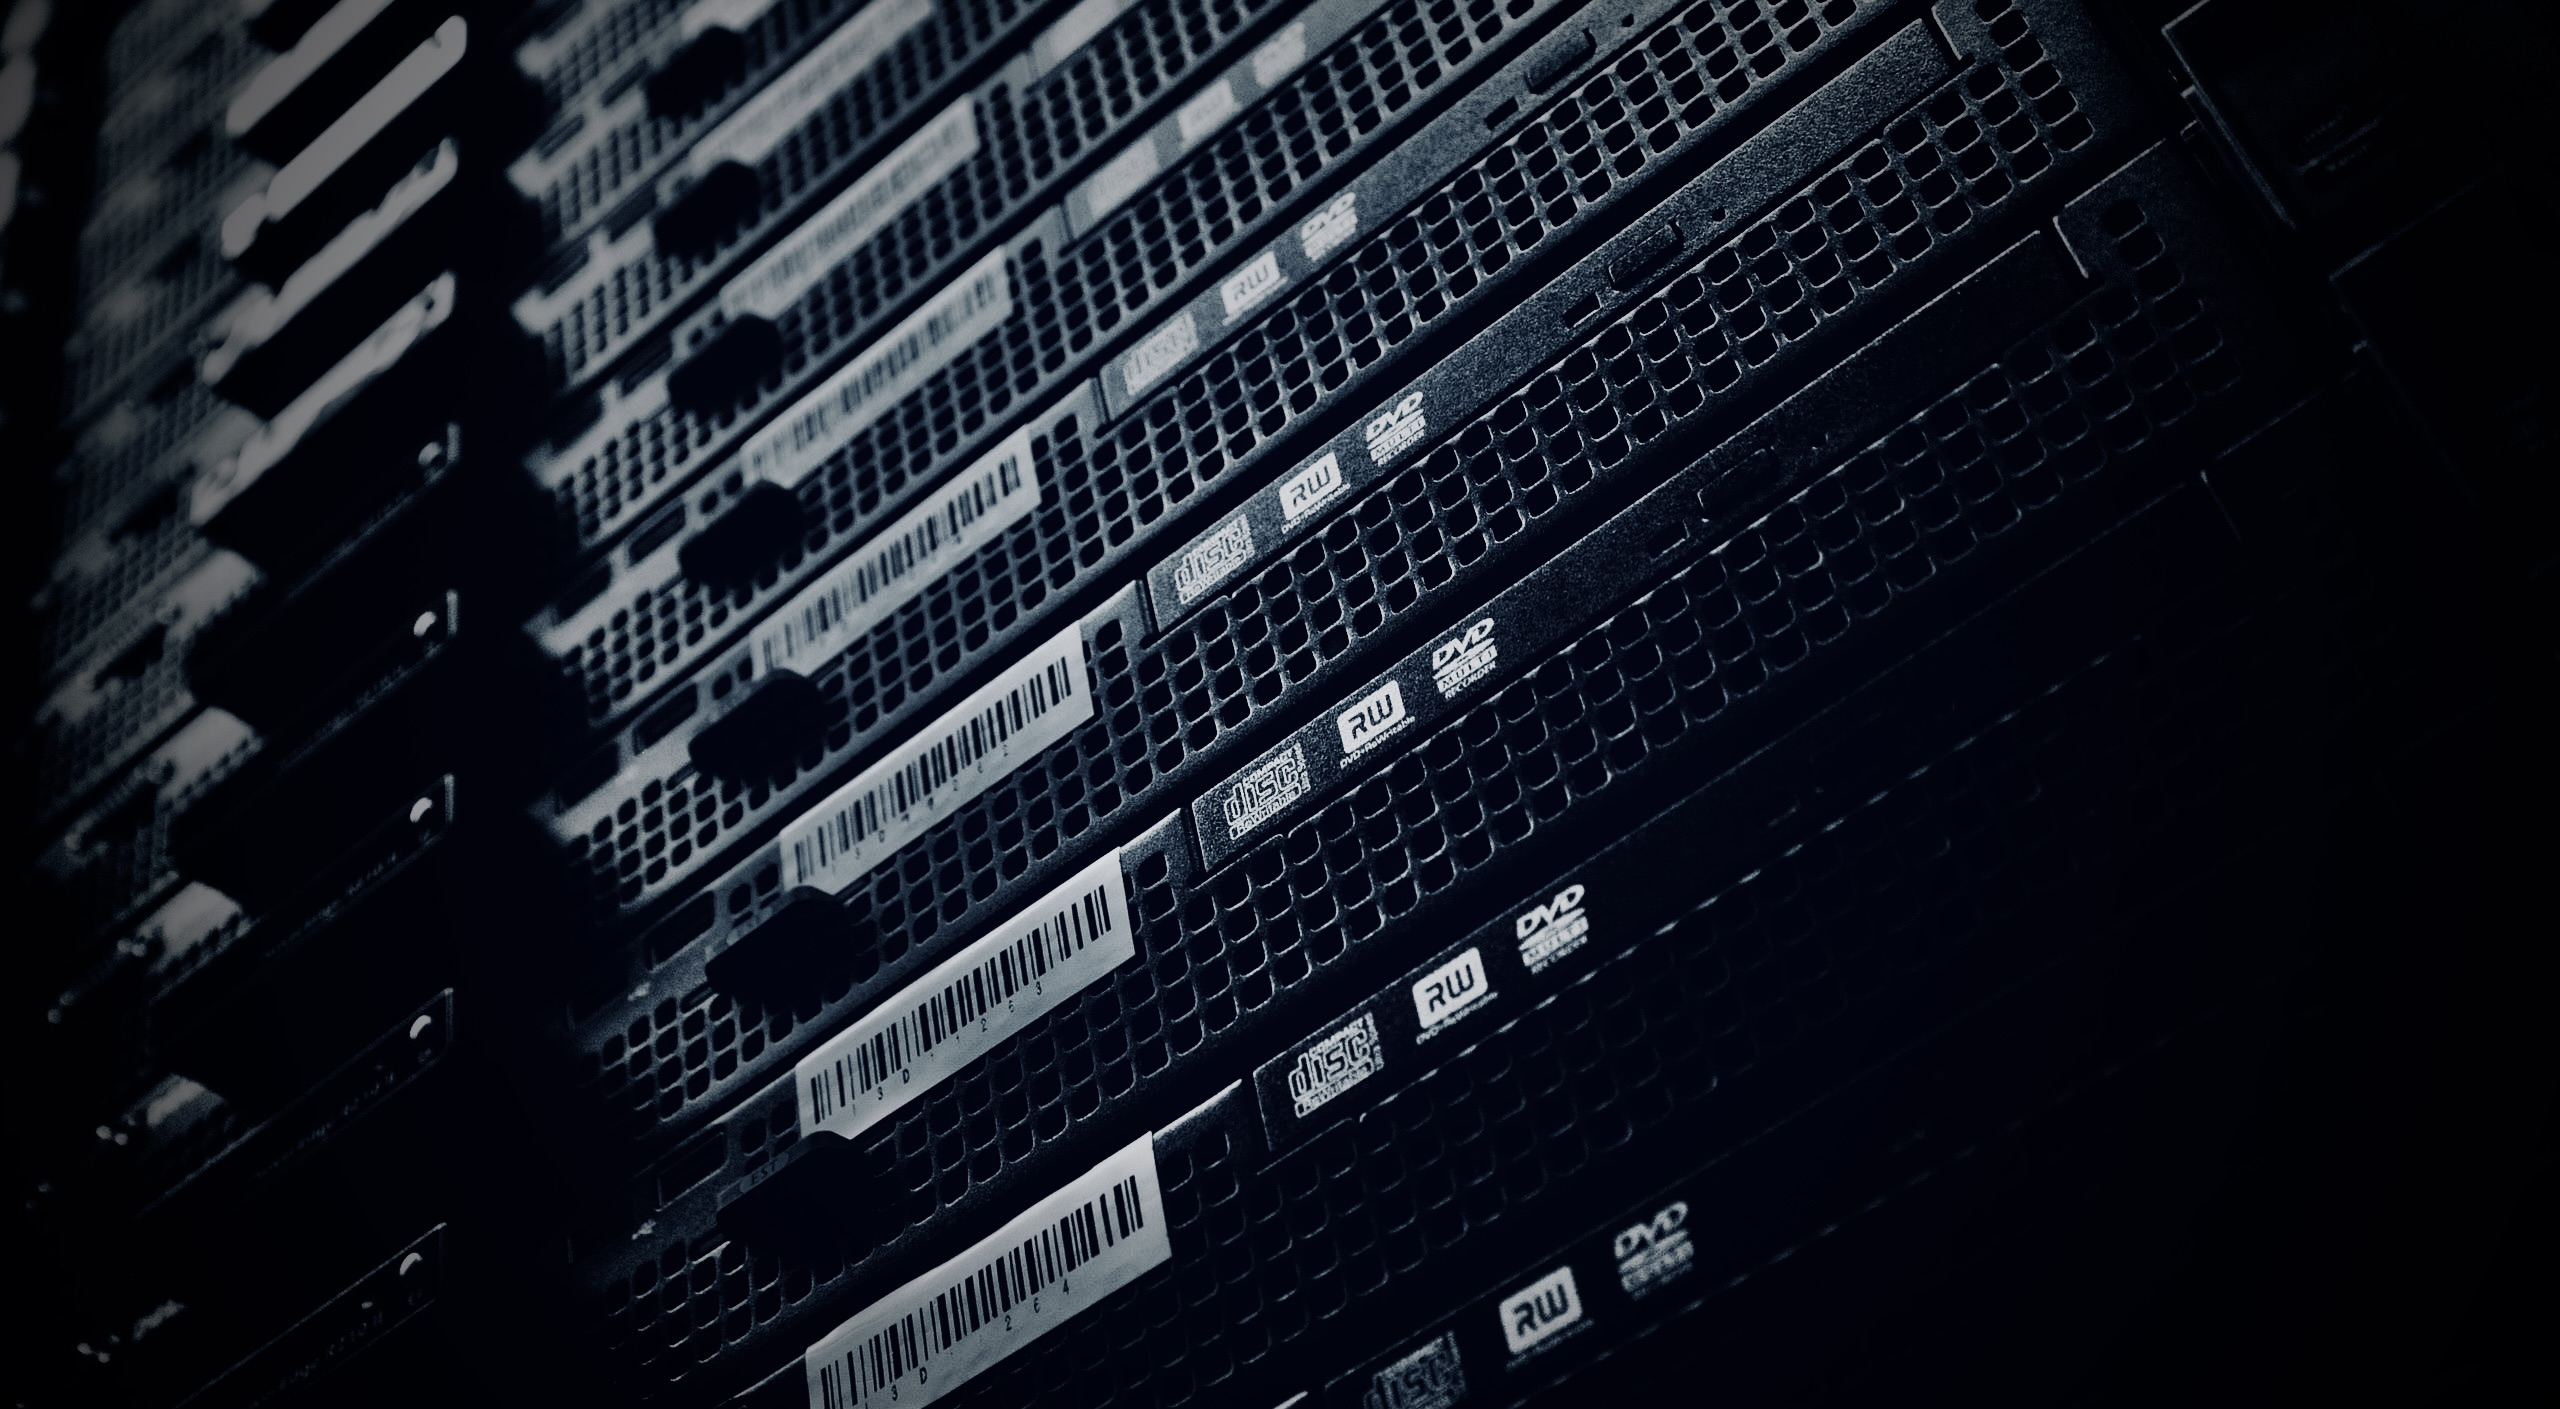
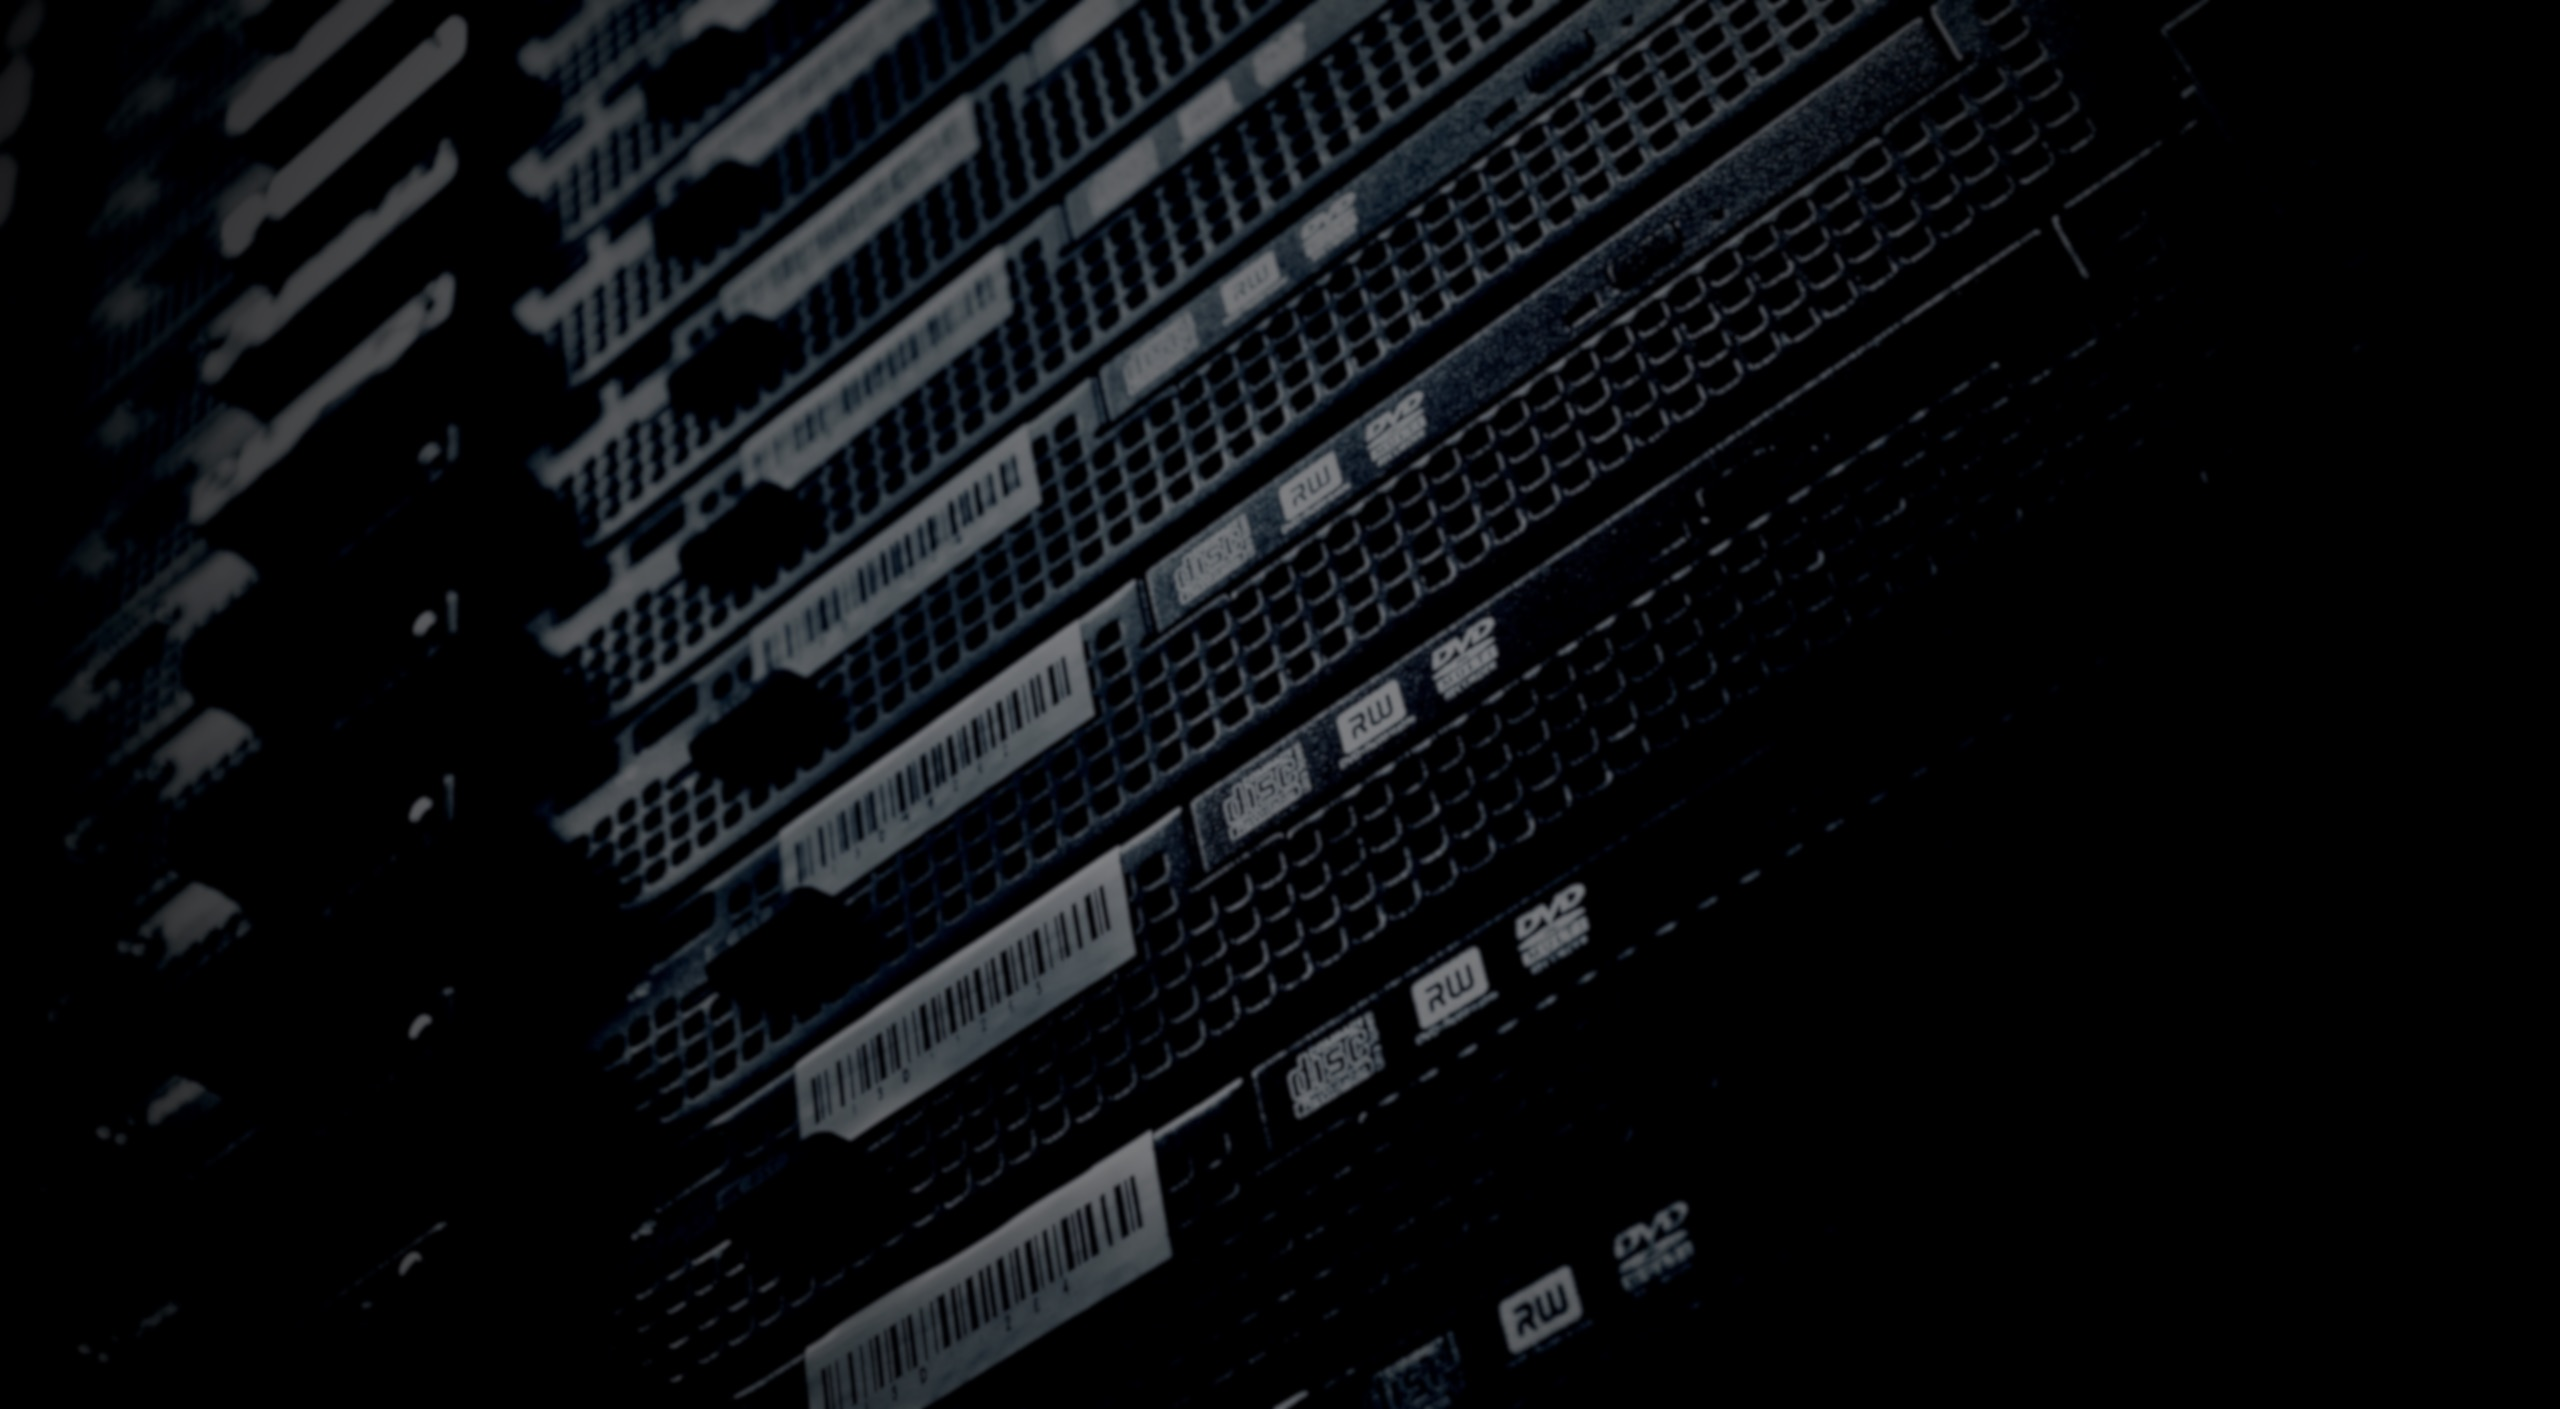
remove background pic, change it to IT

diff --git a/index.html b/index.html
@@ -7,20 +7,28 @@
 
     <link rel="stylesheet" href="node_modules/bootstrap-social/bootstrap-social.css" />
     <link rel="stylesheet" href="node_modules/bootstrap/dist/css/bootstrap.min.css" />
-    <link rel="stylesheet" href="/styles.css">
+    
+
+
     <link rel="stylesheet" href="node_modules/font-awesome/css/font-awesome.min.css" />
+    
+    
     <link rel="preconnect" href="https://fonts.googleapis.com">
     <link rel="preconnect" href="https://fonts.gstatic.com" crossorigin>
     <link href="https://fonts.googleapis.com/css2?family=Beau+Rivage&display=swap" rel="stylesheet"> 
     <link href="https://fonts.googleapis.com/css2?family=Open+Sans&display=swap" rel="stylesheet"> 
-
-
+    
+    <link href="../assets/dist/css/bootstrap.min.css" rel="stylesheet">
+    
+    
+    <link rel="stylesheet" href="/styles.css">
+    
     <title>Document</title>
 </head>
 <body>
 
     <header class="jumbotron jumbotron-fluid">
-        <div class="container">
+        <div class="container container-fluid ">
             <div class="row align-items-center">
                 <div class="col-md-5 col-sm-8 align-self-center">
                     <img src="img/TCS transparent.png" class="img-fluid">
@@ -28,50 +36,50 @@
                 <div class="col-md-5 text-center fs-1 ">
                     <a href="mailto:trinitycomputing@protonmail.com">trinitycomputing@protonmail.com</a>
                 </div>
+                <div class="row row-content justify-content-center ">
+                    <div class="col-8">
+                        <h1 class="topText text-center float-left" >Providing I. T. solutions <br> </h1>
+                        <h1 class="bottomText text-center offset-sm-3"> for a better business</h1>
+                    </div>
+                </div>
+
             </div>
         </div>
     </header>
 
     <div class="container container-fluid p-lg-4">
-        <div class="row row-content justify-content-center">
-            <div class="col-8">
-                <h1 class="topText text-center" >Providing IT solutions <br> </h1>
-                <h1 class="bottomText text-center offset-sm-3"> for a better business</h1>
-            </div>
+        
 
-        </div>
-    
-    
         <div class="row row-content justify-content-center">
             <div class="col-8">
                 <h1 class="text-center">Reliable IT that you can trust with over 20 years of experience</h1>
-                <div class="row row-content justify-content-center"> 
-                    <div class="col-4 fs-3 ">
-                        Server Configuration
+                <div class="row row-content justify-content-center text-wrap"> 
+                    <div class="col-md-4 fs-3 text-center text-wrap">
+                        Server Setup  
                     </div>
-                    <div class="col-4 fs-3">
-                        Cloud setup
+                    <div class="col-md-4 fs-3 text-center">
+                        Cloud Integration
                     </div>
-                    <div class="col-4 fs-3">
-                        Network installations
+                    <div class="col-md-4 fs-3 text-center">
+                        Network Installations
                     </div>
                 </div>
                 <div class="row">
-                    <div class="col fs-3">
-                        PC Imaging
+                    <div class="col-md-4 fs-3 text-center">
+                        Computer Formatting
                     </div>
-                    <div class="col fs-3">
+                    <div class="col-md-4 fs-3 text-center">
                         Software Support
                     </div>
-                    <div class="col fs-3">
-                        Business Consolting
+                    <div class="col-md-4 fs-3 text-center">
+                        Business Consulting
                     </div>  
                 </div>     
                 
             </div>
             <div class="row row-content justify-content-center">
-                <div class="col-sm-5">
-                    <button type="button" class="btn btn-lg btn-primary">Contact us Anytime</button>
+                <div class="col-sm-5 text-center">
+                    <a href="mailto:trinitycomputing@protonmail.com" class="btn btn-lg btn-primary ">Contact us Anytime</a>
                 </div>
             </div>
         </div>

diff --git a/cover.html b/cover.html
@@ -1,0 +1,85 @@
+<!doctype html>
+<html lang="en" class="h-100">
+  <head>
+    <meta charset="utf-8">
+    <meta name="viewport" content="width=device-width, initial-scale=1">
+    <meta name="description" content="">
+    <meta name="author" content="Mark Otto, Jacob Thornton, and Bootstrap contributors">
+    <meta name="generator" content="Hugo 0.88.1">
+    <title>Cover Template · Bootstrap v5.1</title>
+
+    <link rel="canonical" href="https://getbootstrap.com/docs/5.1/examples/cover/">
+    <link rel="stylesheet" href="node_modules/bootstrap-social/bootstrap-social.css" />
+    <link rel="stylesheet" href="node_modules/bootstrap/dist/css/bootstrap.min.css" />
+
+    
+
+    <!-- Bootstrap core CSS -->
+<link href="../assets/dist/css/bootstrap.min.css" rel="stylesheet">
+
+    <style>
+        #intro {
+        background-image: url(./img/servers.jpg);
+        height: 100vh;
+      }
+
+      .bd-placeholder-img {
+        font-size: 1.125rem;
+        text-anchor: middle;
+        -webkit-user-select: none;
+        -moz-user-select: none;
+        user-select: none;
+      }
+
+      @media (min-width: 768px) {
+        .bd-placeholder-img-lg {
+          font-size: 3.5rem;
+        }
+        #intro {
+          margin-top: -58.59px;
+        }
+      }
+    </style>
+
+    
+    <!-- Custom styles for this template -->
+    <link href="cover.css" rel="stylesheet">
+  </head>
+  <body class="d-flex h-100 text-center text-white bg-dark">
+    
+<div class="cover-container d-flex w-100 h-100 p-3 mx-auto flex-column">
+  <header class="mb-auto">
+    <div>
+      <h3 class="float-md-start mb-0">Trinity Computing Solutions</h3>
+      <nav class="nav nav-masthead justify-content-center float-md-end">
+        <a href="mailto:trinitycomputing@protonmail.com">trinitycomputing@protonmail.com</a>
+      </nav>
+    </div>
+  </header>
+
+  <main class="px-3">
+    <h1>Providing IT solutions</h1>
+    <h1> for a better business</h1>
+    <ul class="list-group list-group-horizontal justify-content-center">
+        <li class="list-group-item">Server Configuration</li>
+        <li class="list-group-item">Cloud setup</li>
+        <li class="list-group-item">Network installations</li>
+      </ul>
+      <ul class="list-group list-group-horizontal justify-content-center pb-2">
+        <li class="list-group-item">PC Imaging</li>
+        <li class="list-group-item">Software Support</li>
+        <li class="list-group-item">Business Consolting</li>
+      </ul>
+      <a href="#" class="btn btn-lg btn-secondary fw-bold border-white bg-white">Contact us</a>
+    </p>
+  </main>
+
+  <footer class="mt-auto text-white-50">
+
+  </footer>
+</div>
+
+
+    
+  </body>
+</html>

diff --git a/cover.css b/cover.css
@@ -1,0 +1,53 @@
+/*
+ * Globals
+ */
+
+
+/* Custom default button */
+.btn-secondary,
+.btn-secondary:hover,
+.btn-secondary:focus {
+  color: #333;
+  text-shadow: none; /* Prevent inheritance from `body` */
+}
+
+
+/*
+ * Base structure
+ */
+
+body {
+  text-shadow: 0 .05rem .1rem rgba(0, 0, 0, .5);
+  box-shadow: inset 0 0 5rem rgba(0, 0, 0, .5);
+}
+
+.cover-container {
+  max-width: 42em;
+}
+
+
+/*
+ * Header
+ */
+
+.nav-masthead .nav-link {
+  padding: .25rem 0;
+  font-weight: 700;
+  color: rgba(255, 255, 255, .5);
+  background-color: transparent;
+  border-bottom: .25rem solid transparent;
+}
+
+.nav-masthead .nav-link:hover,
+.nav-masthead .nav-link:focus {
+  border-bottom-color: rgba(255, 255, 255, .25);
+}
+
+.nav-masthead .nav-link + .nav-link {
+  margin-left: 1rem;
+}
+
+.nav-masthead .active {
+  color: #fff;
+  border-bottom-color: #fff;
+}

diff --git a/styles.css b/styles.css
@@ -5,6 +5,8 @@ body {
 
 .bg {
     background-image: url("img/servers.jpg");
+    height: 100vh;
+
 
     background-position: center;
     background-repeat: no-repeat;
@@ -14,6 +16,7 @@ body {
 .topText {
     font-family: 'Beau Rivage', cursive;
     font-size: 3rem;
+    padding-right: 15%;
 }
 
 .bottomText {
